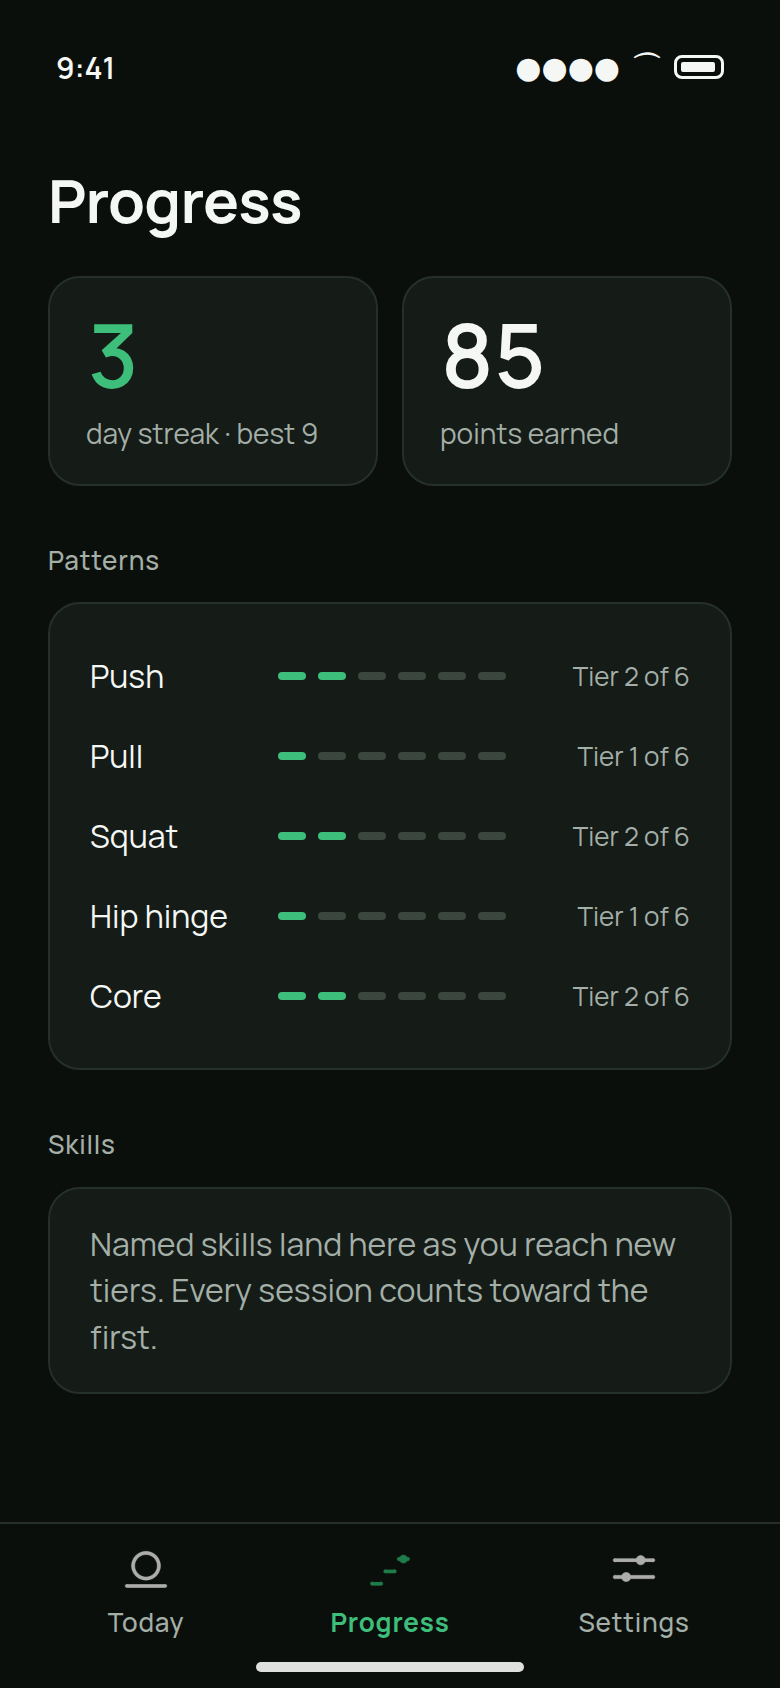
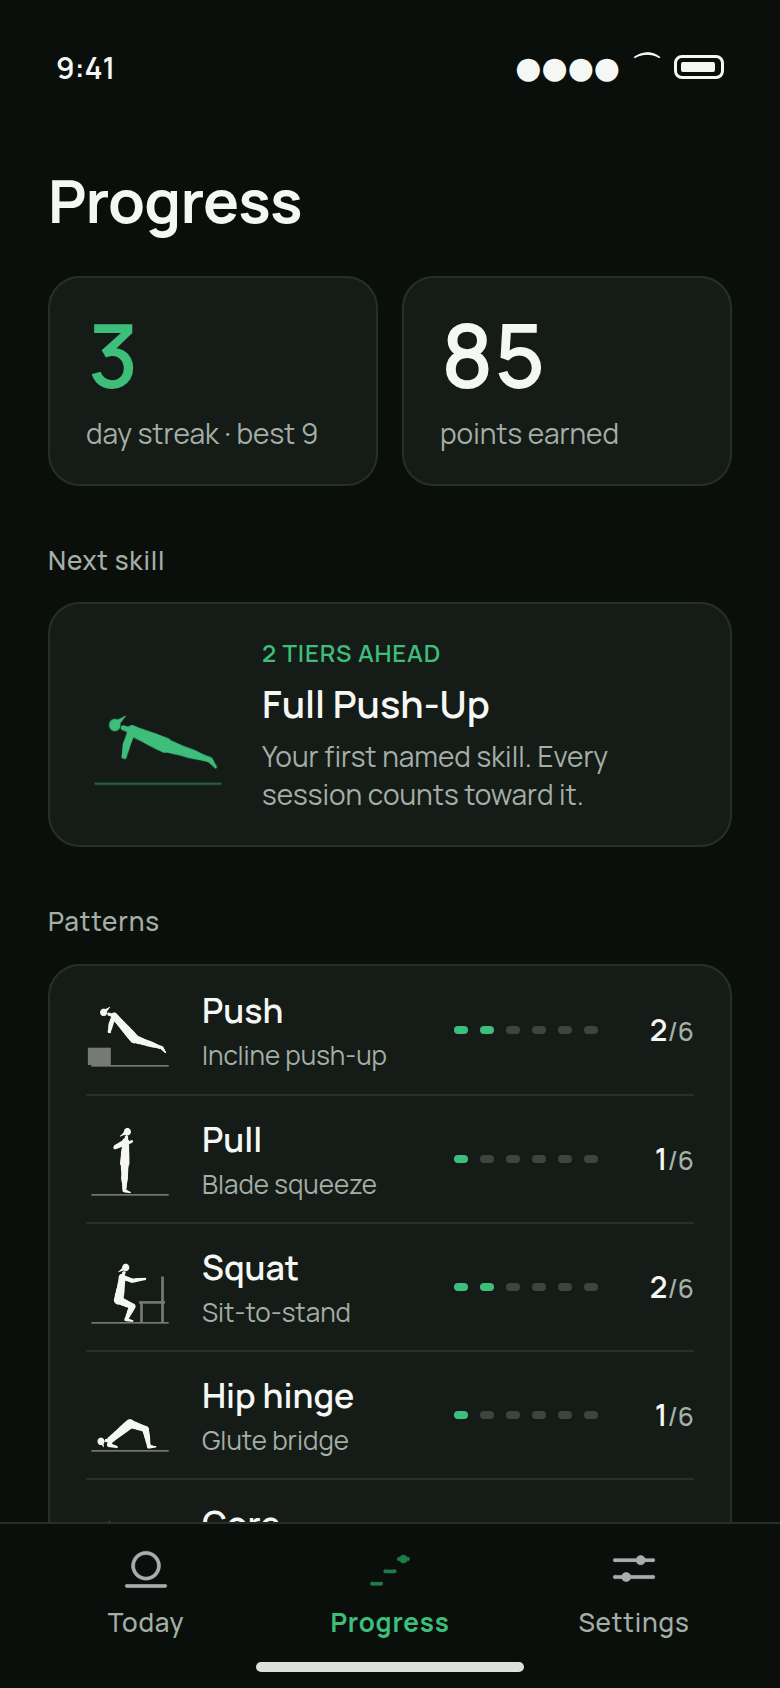
WIP: Progress with pattern figures and next-skill tile; Settings as a grouped value list

diff --git a/docs/design/mockups/progress.html b/docs/design/mockups/progress.html
@@ -3,23 +3,39 @@
 .h { margin-top: 12px; margin-bottom: 20px; }
 .sec { margin-bottom: 28px; }
 .sec .caption { margin-bottom: 12px; }
-.tile { background: var(--surface); border: 1px solid var(--line); border-radius: var(--r-card); padding: 16px 20px; }
 .stats { display: flex; gap: 12px; }
 .stat { flex: 1; background: var(--surface); border: 1px solid var(--line); border-radius: var(--r-card); padding: 16px 18px; }
 .stat .numeral { font-size: 44px; line-height: 1; letter-spacing: -1px; }
 .stat .numeral.g { color: var(--accent); }
 .stat .l { color: var(--ink-soft); font-size: 14px; margin-top: 8px; }
-.prow { display: flex; align-items: center; gap: 12px; height: 40px; }
-.prow .name { width: 82px; font-size: 16px; }
-.prow .track { flex: 1; }
-.prow .tier { width: 80px; text-align: right; font-size: 13px; color: var(--ink-soft); }
-.orow { display: flex; align-items: center; justify-content: space-between; height: 56px; font-size: 17px; }
-.orow + .orow { border-top: 1px solid var(--line); }
-.orow .ck { color: var(--accent); font-weight: 700; }
-.chips { display: flex; flex-wrap: wrap; gap: 8px; }
-.chips span { padding: 9px 14px; border-radius: 999px; border: 1px solid var(--line); font-size: 15px; font-weight: 500; line-height: 1.2; }
-.chips span.sel { background: var(--accent-soft); border-color: var(--accent); }
+.prow { display: flex; align-items: center; gap: 14px; height: 64px; }
+.prow + .prow { border-top: 1px solid var(--line); }
+.prow .fig { width: 44px; height: 44px; flex: 0 0 44px; background: var(--ink); -webkit-mask: var(--m) center/contain no-repeat; mask: var(--m) center/contain no-repeat; }
+.prow .txt { flex: 1; min-width: 0; }
+.prow .name { font-size: 17px; font-weight: 600; }
+.prow .mv { font-size: 13px; color: var(--ink-soft); margin-top: 2px; white-space: nowrap; overflow: hidden; text-overflow: ellipsis; }
+.prow .track { width: 72px; }
+.prow .tier { width: 34px; text-align: right; font-size: 15px; font-weight: 600; }
+.prow .tier small { color: var(--ink-soft); font-weight: 500; font-size: 13px; }
+.skill { display: flex; align-items: center; gap: 16px; background: var(--surface); border: 1px solid var(--line); border-radius: var(--r-card); padding: 16px 18px; }
+.skill .fig { width: 72px; height: 72px; flex: 0 0 72px; background: var(--accent); -webkit-mask: url('../../../app/assets/movements/full-push-up.png') center/contain no-repeat; mask: url('../../../app/assets/movements/full-push-up.png') center/contain no-repeat; }
+.skill .name { font-size: 19px; font-weight: 600; }
+.skill .away { color: var(--ink-soft); font-size: 14px; margin-top: 4px; }
+.skill .eyebrow { font-size: 12px; color: var(--accent); font-weight: 600; letter-spacing: 0.4px; margin-bottom: 4px; }
+.row { display: flex; align-items: center; gap: 14px; height: 60px; }
+.row + .row { border-top: 1px solid var(--line); }
+.row .ic { width: 28px; height: 28px; flex: 0 0 28px; border-radius: 8px; background: var(--accent-soft); display:flex; align-items:center; justify-content:center; }
+.row .ic i { display:block; width: 12px; height: 12px; border: 2px solid var(--accent); border-radius: 3px; }
+.row .lbl { flex: 1; font-size: 17px; }
+.row .val { color: var(--ink-soft); font-size: 15px; }
+.row .chev { width: 9px; height: 9px; border-right: 1.5px solid var(--ink-soft); border-top: 1.5px solid var(--ink-soft); transform: rotate(45deg); margin-left: 4px; }
+.group { background: var(--surface); border: 1px solid var(--line); border-radius: var(--r-card); padding: 0 18px; }
+.profile { display: flex; align-items: center; gap: 14px; margin-bottom: 28px; }
+.profile .mark { width: 48px; height: 48px; background: var(--accent); -webkit-mask: url('../../../app/assets/brand/mark.png') center/contain no-repeat; mask: url('../../../app/assets/brand/mark.png') center/contain no-repeat; }
+.profile .who { font-size: 17px; font-weight: 600; }
+.profile .st { color: var(--ink-soft); font-size: 14px; margin-top: 2px; }
 .scroll { overflow: hidden; flex: 1; }
+.foot { text-align: center; color: var(--ink-soft); font-size: 13px; margin-top: 4px; }
 </style></head><body><div class="phone"><div class="statusbar"><span>9:41</span><span class="right"><span>●●●●</span><span>⌒</span><span class="batt"></span></span></div>
 <div class="screen" style="padding-bottom:83px">
   <div class="title h">Progress</div>
@@ -28,14 +44,10 @@
     <div class="stat"><div class="numeral g">3</div><div class="l">day streak · best 9</div></div>
     <div class="stat"><div class="numeral">85</div><div class="l">points earned</div></div>
   </div></div>
-  <div class="sec"><div class="caption">Patterns</div><div class="tile">
-    <div class="prow"><span class="name">Push</span><div class="track"><i class="on"></i><i class="on"></i><i></i><i></i><i></i><i></i></div><span class="tier">Tier 2 of 6</span></div>
-    <div class="prow"><span class="name">Pull</span><div class="track"><i class="on"></i><i></i><i></i><i></i><i></i><i></i></div><span class="tier">Tier 1 of 6</span></div>
-    <div class="prow"><span class="name">Squat</span><div class="track"><i class="on"></i><i class="on"></i><i></i><i></i><i></i><i></i></div><span class="tier">Tier 2 of 6</span></div>
-    <div class="prow"><span class="name">Hip hinge</span><div class="track"><i class="on"></i><i></i><i></i><i></i><i></i><i></i></div><span class="tier">Tier 1 of 6</span></div>
-    <div class="prow"><span class="name">Core</span><div class="track"><i class="on"></i><i class="on"></i><i></i><i></i><i></i><i></i></div><span class="tier">Tier 2 of 6</span></div>
-  </div></div>
-  <div class="sec"><div class="caption">Skills</div><div class="tile"><div class="body-soft" style="font-size:16px">Named skills land here as you reach new tiers. Every session counts toward the first.</div></div></div>
+  <div class="sec"><div class="caption">Next skill</div>
+    <div class="skill"><span class="fig"></span><div><div class="eyebrow">2 TIERS AHEAD</div><div class="name">Full Push-Up</div><div class="away">Your first named skill. Every session counts toward it.</div></div></div>
+  </div>
+  <div class="sec"><div class="caption">Patterns</div><div class="group"><div class="prow"><span class="fig" style="--m:url('../../../app/assets/movements/incline-push-up.png')"></span><div class="txt"><div class="name">Push</div><div class="mv">Incline push-up</div></div><div class="track"><i class="on"></i><i class="on"></i><i></i><i></i><i></i><i></i></div><div class="tier">2<small>/6</small></div></div><div class="prow"><span class="fig" style="--m:url('../../../app/assets/movements/shoulder-blade-squeeze.png')"></span><div class="txt"><div class="name">Pull</div><div class="mv">Blade squeeze</div></div><div class="track"><i class="on"></i><i></i><i></i><i></i><i></i><i></i></div><div class="tier">1<small>/6</small></div></div><div class="prow"><span class="fig" style="--m:url('../../../app/assets/movements/sit-to-stand.png')"></span><div class="txt"><div class="name">Squat</div><div class="mv">Sit-to-stand</div></div><div class="track"><i class="on"></i><i class="on"></i><i></i><i></i><i></i><i></i></div><div class="tier">2<small>/6</small></div></div><div class="prow"><span class="fig" style="--m:url('../../../app/assets/movements/glute-bridge.png')"></span><div class="txt"><div class="name">Hip hinge</div><div class="mv">Glute bridge</div></div><div class="track"><i class="on"></i><i></i><i></i><i></i><i></i><i></i></div><div class="tier">1<small>/6</small></div></div><div class="prow"><span class="fig" style="--m:url('../../../app/assets/movements/incline-plank.png')"></span><div class="txt"><div class="name">Core</div><div class="mv">Incline plank</div></div><div class="track"><i class="on"></i><i class="on"></i><i></i><i></i><i></i><i></i></div><div class="tier">2<small>/6</small></div></div></div></div>
   </div>
 </div>
 <div class="tabbar"><div class="tab "><img src="../../../app/assets/icons/tab-today.png" style="filter:brightness(0.68)"><span class="caption">Today</span></div><div class="tab active"><img src="../../../app/assets/icons/tab-progress.png" style="filter:invert(62%) sepia(45%) saturate(600%) hue-rotate(95deg) brightness(95%)"><span class="caption">Progress</span></div><div class="tab "><img src="../../../app/assets/icons/tab-settings.png" style="filter:brightness(0.68)"><span class="caption">Settings</span></div></div><div class="home-indicator"></div></div></body></html>

diff --git a/docs/design/mockups/settings.html b/docs/design/mockups/settings.html
@@ -3,31 +3,49 @@
 .h { margin-top: 12px; margin-bottom: 20px; }
 .sec { margin-bottom: 28px; }
 .sec .caption { margin-bottom: 12px; }
-.tile { background: var(--surface); border: 1px solid var(--line); border-radius: var(--r-card); padding: 16px 20px; }
 .stats { display: flex; gap: 12px; }
 .stat { flex: 1; background: var(--surface); border: 1px solid var(--line); border-radius: var(--r-card); padding: 16px 18px; }
 .stat .numeral { font-size: 44px; line-height: 1; letter-spacing: -1px; }
 .stat .numeral.g { color: var(--accent); }
 .stat .l { color: var(--ink-soft); font-size: 14px; margin-top: 8px; }
-.prow { display: flex; align-items: center; gap: 12px; height: 40px; }
-.prow .name { width: 82px; font-size: 16px; }
-.prow .track { flex: 1; }
-.prow .tier { width: 80px; text-align: right; font-size: 13px; color: var(--ink-soft); }
-.orow { display: flex; align-items: center; justify-content: space-between; height: 56px; font-size: 17px; }
-.orow + .orow { border-top: 1px solid var(--line); }
-.orow .ck { color: var(--accent); font-weight: 700; }
-.chips { display: flex; flex-wrap: wrap; gap: 8px; }
-.chips span { padding: 9px 14px; border-radius: 999px; border: 1px solid var(--line); font-size: 15px; font-weight: 500; line-height: 1.2; }
-.chips span.sel { background: var(--accent-soft); border-color: var(--accent); }
+.prow { display: flex; align-items: center; gap: 14px; height: 64px; }
+.prow + .prow { border-top: 1px solid var(--line); }
+.prow .fig { width: 44px; height: 44px; flex: 0 0 44px; background: var(--ink); -webkit-mask: var(--m) center/contain no-repeat; mask: var(--m) center/contain no-repeat; }
+.prow .txt { flex: 1; }
+.prow .name { font-size: 17px; font-weight: 600; }
+.prow .mv { font-size: 13px; color: var(--ink-soft); margin-top: 2px; }
+.prow .track { width: 96px; }
+.prow .tier { width: 34px; text-align: right; font-size: 15px; font-weight: 600; }
+.prow .tier small { color: var(--ink-soft); font-weight: 500; font-size: 13px; }
+.skill { display: flex; align-items: center; gap: 16px; background: var(--surface); border: 1px solid var(--line); border-radius: var(--r-card); padding: 16px 18px; }
+.skill .fig { width: 72px; height: 72px; flex: 0 0 72px; background: var(--accent); -webkit-mask: url('../../../app/assets/movements/full-push-up.png') center/contain no-repeat; mask: url('../../../app/assets/movements/full-push-up.png') center/contain no-repeat; }
+.skill .name { font-size: 19px; font-weight: 600; }
+.skill .away { color: var(--ink-soft); font-size: 14px; margin-top: 4px; }
+.skill .eyebrow { font-size: 12px; color: var(--accent); font-weight: 600; letter-spacing: 0.4px; margin-bottom: 4px; }
+.row { display: flex; align-items: center; gap: 12px; height: 58px; }
+.row + .row { border-top: 1px solid var(--line); }
+.row .ic { width: 28px; height: 28px; flex: 0 0 28px; border-radius: 8px; background: var(--accent-soft); display:flex; align-items:center; justify-content:center; }
+.row .ic i { display:block; width: 12px; height: 12px; border: 2px solid var(--accent); border-radius: 3px; }
+.row .lbl { flex: 1; font-size: 17px; white-space: nowrap; }
+.row .val { color: var(--ink-soft); font-size: 15px; white-space: nowrap; }
+.row .chev { width: 9px; height: 9px; border-right: 1.5px solid var(--ink-soft); border-top: 1.5px solid var(--ink-soft); transform: rotate(45deg); margin-left: 4px; }
+.group { background: var(--surface); border: 1px solid var(--line); border-radius: var(--r-card); padding: 0 18px; }
+.profile { display: flex; align-items: center; gap: 14px; margin-bottom: 28px; }
+.profile .mark { width: 48px; height: 48px; background: var(--accent); -webkit-mask: url('../../../app/assets/brand/mark.png') center/contain no-repeat; mask: url('../../../app/assets/brand/mark.png') center/contain no-repeat; }
+.profile .who { font-size: 17px; font-weight: 600; }
+.profile .st { color: var(--ink-soft); font-size: 14px; margin-top: 2px; }
 .scroll { overflow: hidden; flex: 1; }
+.foot { text-align: center; color: var(--ink-soft); font-size: 13px; margin-top: 4px; }
 </style></head><body><div class="phone"><div class="statusbar"><span>9:41</span><span class="right"><span>●●●●</span><span>⌒</span><span class="batt"></span></span></div>
 <div class="screen" style="padding-bottom:83px">
   <div class="title h">Settings</div>
   <div class="scroll">
-  <div class="sec"><div class="caption">Always work around</div><div class="tile"><div class="chips"><span class="sel">Wrists ✓</span><span>Shoulders</span><span>Elbows</span><span>Back</span><span>Hips</span><span>Knees</span><span>Ankles</span><span>Core</span></div></div></div>
-  <div class="sec"><div class="caption">What's within reach?</div><div class="tile" style="padding-top:0;padding-bottom:0"><div class="orow"><span>Just me and the floor</span></div><div class="orow"><span>A sturdy chair too</span><span class="ck">✓</span></div></div></div>
-  <div class="sec"><div class="caption">Daily invitation</div><div class="tile" style="padding-top:0;padding-bottom:0"><div class="orow"><span>Morning (8:00)</span><span class="ck">✓</span></div><div class="orow"><span>Midday (12:30)</span></div><div class="orow"><span>Evening (18:30)</span></div><div class="orow"><span>No invitation</span></div></div></div>
-  <div class="sec"><div class="caption">Subscription</div><div class="tile" style="padding-top:0;padding-bottom:0"><div class="orow"><span>Restore purchase</span></div><div class="orow"><span>Manage subscription</span></div></div></div>
+  <div class="profile"><span class="mark"></span><div><div class="who">Signed in with Apple</div><div class="st">Training since 2 September</div></div></div>
+  <div class="sec"><div class="caption">Training</div><div class="group"><div class="row"><span class="lbl">Always work around</span><span class="val">Wrists</span><span class=chev></span></div><div class="row"><span class="lbl">Equipment</span><span class="val">Floor and a chair</span><span class=chev></span></div><div class="row"><span class="lbl">Coach voice</span><span class="val">Off</span><span class=chev></span></div></div></div>
+  <div class="sec"><div class="caption">Daily invitation</div><div class="group"><div class="row"><span class="lbl">Time</span><span class="val">Morning, 8:00</span><span class=chev></span></div><div class="row"><span class="lbl">Your notes</span><span class="val">3 notes</span><span class=chev></span></div></div></div>
+  <div class="sec"><div class="caption">Subscription</div><div class="group"><div class="row"><span class="lbl">Plan</span><span class="val">Yearly</span><span class=chev></span></div><div class="row"><span class="lbl">Restore purchase</span><span class="val"></span></div></div></div>
+  <div class="sec"><div class="caption">Account</div><div class="group"><div class="row"><span class="lbl">Sign out</span><span class="val"></span></div><div class="row"><span class="lbl" style="color:var(--danger)">Erase everything on this phone</span></div></div></div>
+  <div class="foot">FITHER 1.0.0</div>
   </div>
 </div>
 <div class="tabbar"><div class="tab "><img src="../../../app/assets/icons/tab-today.png" style="filter:brightness(0.68)"><span class="caption">Today</span></div><div class="tab "><img src="../../../app/assets/icons/tab-progress.png" style="filter:brightness(0.68)"><span class="caption">Progress</span></div><div class="tab active"><img src="../../../app/assets/icons/tab-settings.png" style="filter:invert(62%) sepia(45%) saturate(600%) hue-rotate(95deg) brightness(95%)"><span class="caption">Settings</span></div></div><div class="home-indicator"></div></div></body></html>

diff --git a/app/src/copy/strings.ts b/app/src/copy/strings.ts
@@ -436,24 +436,29 @@ export const strings = {
       "No ads, ever",
     ],
   },
-  // COPY-WRITER (2026-09-05, owner decision): the one-time offer screen.
-  // Shown ONCE, on day 3 of her free week, and only after she has
-  // switched off the trial's auto-renew in her App Store settings. One
-  // decision: take the lifetime purchase, or not. Same register as the
-  // paywall letter. The body acknowledges her choice as a plain fact —
-  // no guilt, no question, no "are you sure" — then states the offer:
-  // one payment, everything, no renewal. The price is not in the prose,
-  // exactly as the paywall letter carries none: the screen must render
-  // paywall.plans.lifetime (label, price, note) beside this body, or she
-  // never sees the amount. "We'll only ask once" is the one true fact
-  // about frequency, stated flatly; no countdown, no "last chance", no
-  // "only today". `cta` names the outcome she gets. `decline` names the
-  // plain state she is already in, with equal dignity — it is the
-  // default path, not a loss.
+  // COPY-WRITER (2026-09-06, owner decision; ADR-0014 §2): the one-time
+  // offer screen, reshaped to match the redesigned paywall rather than
+  // its letter. Shown ONCE, on day 3 of her free week, and only after
+  // she has switched off the trial's auto-renew. Order on screen:
+  // `headline` (the promise: keeping the climb she has started, the
+  // same ladder image the paywall uses), `lead` (two plain facts: her
+  // free week still ends free with nothing charged, and this is the one
+  // other way to keep FITHER), `body` (one sentence, what one payment
+  // covers), `priceLine`, `cta`, `decline`. Her auto-renew choice is
+  // acknowledged as a fact in "still ends free", never questioned. No
+  // urgency, no countdown, no "last chance", no "only today", no
+  // strikethrough, no "best value". `priceLine` is the amount in prose
+  // form; if the screen also renders the paywall.plans.lifetime row,
+  // show one or the other, not both. `cta` names the outcome she gets.
+  // `decline` names the plain state she is already in, with equal
+  // dignity: it is the default path, not a loss. The old "We'll only
+  // ask once" line is dropped with the letter; the once-only rule is
+  // enforced by the ask record, not by the copy.
   lifetimeOffer: {
-    headline: "One other option",
-    body:
-      "You've switched off auto-renew, so your free week ends as a free week and nothing is charged. There is one other way to keep FITHER: one payment covers everything: every session, every length, working offline, with no subscription and no renewal, ever. We'll only ask once.",
+    headline: "Keep the climb.",
+    lead: "Your free week still ends free, nothing charged. One other way to keep FITHER.",
+    body: "One payment covers every session, every length, adapted daily, for good.",
+    priceLine: "$99, once.",
     cta: "Pay once, keep everything",
     decline: "Finish my free week as planned",
   },
